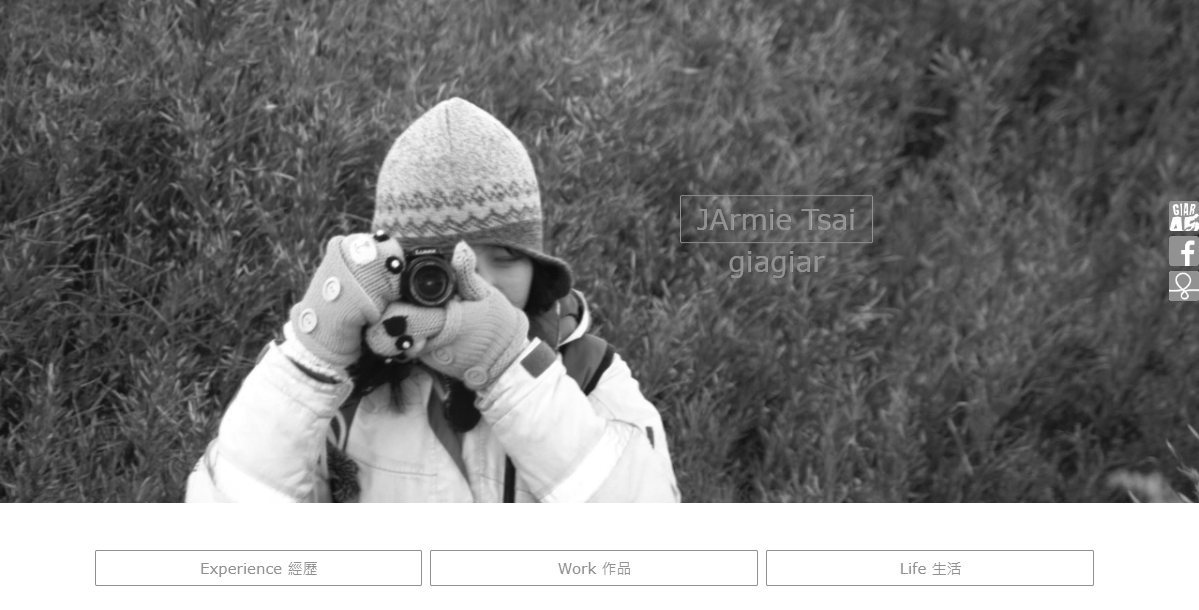
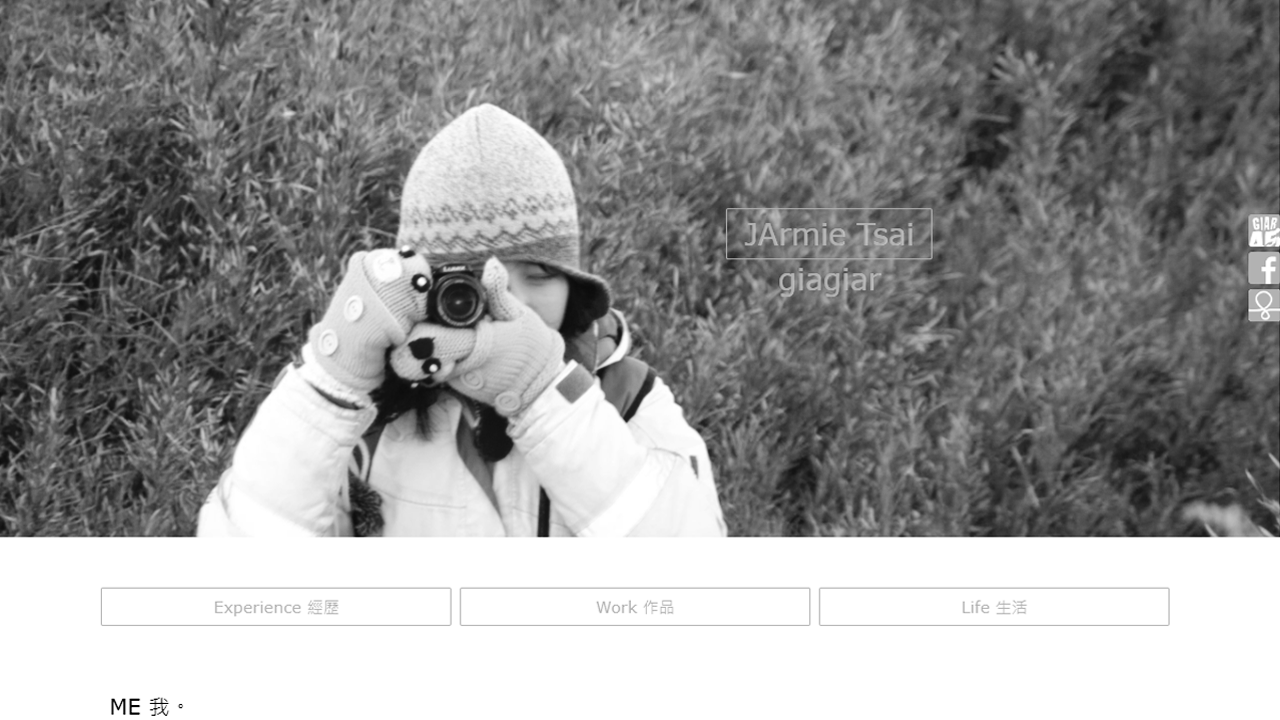
renew images of website and the margin of background

diff --git a/work-copywriting.html b/work-copywriting.html
@@ -105,53 +105,46 @@
                     <div><div class="projectvolume" style="background-image: url(Copywriting/hikingbiji/icebreakerDescender/IMGP1188.JPG);" >
                     <img src="Copywriting/hikingbiji/icebreakerDescender/IMGP1188.JPG"/>
                         <div class="projectdescription">
-                            <h2 class="descriptionBr">【體驗】icebreaker Descender連帽保暖外套</h2>
+                            <h2 class="descriptionSymbol">【體驗】icebreaker Descender連帽保暖外套</h2>
                             <p class="descriptionBr"><br><a onclick="openWindow('extPage'); loadpage('article','Copywriting/hikingbiji-icebreakerDescender.html');">&nbsp; read article | 看文章 > </a></p>
                             <p class="descriptionBr"><a href="https://hiking.biji.co/index.php?q=review&act=info&review_id=9545"  target="_blank">&nbsp; go to website | 去網頁> </a></p>
                         </div>
                      </div></div>
-                    
-                    <hr class="divider">
+
                     
                     <div><div class="projectvolume" style="background-image: url(Copywriting/hikingbiji/milletUBIC45MBS/IMGP9797.jpg);" >
                     <img src="Copywriting/hikingbiji/milletUBIC45MBS/IMGP9797.jpg"/>
                         <div class="projectdescription">
-                            <h2 class="descriptionBr">【開箱】法國經典品牌－軍用起家的MILLET-UBIC 45 MBS登山包</h2>
+                            <h2 class="descriptionSymbol">【開箱】法國經典品牌－軍用起家的MILLET-UBIC 45 MBS登山包</h2>
                             <p class="descriptionBr"><br><a onclick="openWindow('extPage'); loadpage('article','Copywriting/hikingbiji-milletUBIC45MBS.html');">&nbsp; read article | 看文章 > </a></p>
                             <p class="descriptionBr"><a href="https://hiking.biji.co/index.php?q=news&act=info&id=15646"  target="_blank">&nbsp; go to website | 去網頁> </a></p>
                         </div>
                      </div></div>
-                    
-                    <hr class="divider">
+
                     
                     <div><div class="projectvolume" style="background-image: url(Copywriting/hikingbiji/TaoYuanBiketour/Taoyuan.jpg);" >
                     <img src="Copywriting/hikingbiji/TaoYuanBiketour/Taoyuan.jpg"/>
                         <div class="projectdescription">
-                            <h2 class="descriptionBr">【活動】桃園海岸輕旅行</h2>
+                            <h2 class="descriptionSymbol">【活動】桃園海岸輕旅行</h2>
                             <p class="descriptionBr"><br><a onclick="openWindow('extPage'); loadpage('article','Copywriting/hikingbiji-TaoYuanBiketour.html');">&nbsp; read article | 看文章 > </a></p>
                             <p class="descriptionBr"><a href="https://hiking.biji.co/index.php?q=news&act=info&id=15735"  target="_blank">&nbsp; go to website | 去網頁> </a></p>
                         </div>
                      </div></div>
-                    
-                    <hr class="divider">
  
                     <div><div class="projectvolume" style="background-image: url(Copywriting/hikingbiji/RaknusSelu01/CoverDay1-1.jpg);" >
                     <img src="Copywriting/hikingbiji/RaknusSelu01/CoverDay1-1.jpg"/>
                     <div class="projectdescription">
-                        <h2 class="descriptionBr">【路線】樟之細路│D5 北埔－石硬子古道－三灣</h2>
+                        <h2 class="descriptionSymbol">【路線】樟之細路│D5 北埔－石硬子古道－三灣</h2>
                         <p class="descriptionBr"><br><a onclick="openWindow('extPage'); loadpage('article','Copywriting/hikingbiji-RaknusSelu01.html');">&nbsp; read article | 看文章 > </a></p>
                         <p class="descriptionBr"><a href="https://hiking.biji.co/index.php?q=news&act=info&id=15590"  target="_blank">&nbsp; go to website | 去網頁> </a></p>
                     </div>
                     </div></div>
-                    
 
-
-                    <hr class="divider">
  
                     <div><div class="projectvolume" style="background-image: url(Copywriting/hikingbiji/DanLanTrail/P1050570.jpg);" >
                     <img src="Copywriting/hikingbiji/DanLanTrail/P1050570.jpg"/>
                     <div class="projectdescription">
-                        <h2 class="descriptionBr">【淡蘭古道北路】石城至牡丹段二日踩線紀錄（石城-楊廷理古道-牡丹）</h2>
+                        <h2 class="descriptionSymbol">【淡蘭古道北路】石城至牡丹段二日踩線紀錄（石城-楊廷理古道-牡丹）</h2>
                         <p class="descriptionBr"><br><a onclick="openWindow('extPage'); loadpage('article','Copywriting/hikingbiji-DanLanTrail.html');">&nbsp; read article | 看文章 > </a></p>
                         <p class="descriptionBr"><a href="https://hiking.biji.co/index.php?q=review&act=info&review_id=5863"  target="_blank">&nbsp; go to website | 去網頁> </a></p>
                     </div>
@@ -169,7 +162,7 @@
                     <div><div class="projectvolume" style="background-image: url(Copywriting/buon/factors.jpg);" >
                     <img src="Copywriting/buon/factors.jpg"/>
                     <div class="projectdescription">
-                        <h2 class="descriptionBr">【 手沖入門 】新手沖煮咖啡必看五大要因</h2>
+                        <h2 class="descriptionSymbol">【手沖入門】新手沖煮咖啡必看五大要因</h2>
                         <p class="descriptionBr"><br><a onclick="openWindow('extPage'); loadpage('article','Copywriting/buon-5factors.html');">&nbsp; read article | 看文章 > </a></p>
                         <p class="descriptionBr"><a href="https://www.buoncaffe.com.tw/blog/posts/5factors"  target="_blank">&nbsp; go to website | 去網頁 > </a></p>
                     </div>
@@ -178,7 +171,7 @@
                     <div><div class="projectvolume" style="background-image: url(Copywriting/buon/di-bella-coffee-Ko7PFAommGE-unsplash.jpg);" >
                     <img src="Copywriting/buon/di-bella-coffee-Ko7PFAommGE-unsplash.jpg"/>
                     <div class="projectdescription">
-                        <h2 class="descriptionBr">【手沖知識】「悶蒸」如何影響手沖咖啡的風味</h2>
+                        <h2 class="descriptionSymbol">【手沖知識】「悶蒸」如何影響手沖咖啡的風味</h2>
                         <p class="descriptionBr"><br><a onclick="openWindow('extPage'); loadpage('article','Copywriting/buon-bloom.html');">&nbsp; read article | 看文章 > </a></p><p class="descriptionBr"><a href="https://www.buoncaffe.com.tw/blog/posts/bloom"  target="_blank">&nbsp; go to website | 去網頁> </a></p>
                     </div>
                     </div></div>
@@ -186,7 +179,7 @@
                     <div><div class="projectvolume" style="background-image: url(Copywriting/buon/wall.jpg);" >
                     <img src="Copywriting/buon/wall.jpg"/>
                     <div class="projectdescription">
-                        <h2 class="descriptionBr">【手沖知識】粉牆形成與築粉牆技巧</h2>
+                        <h2 class="descriptionSymbol">【手沖知識】粉牆形成與築粉牆技巧</h2>
                         <p class="descriptionBr"><br><a onclick="openWindow('extPage'); loadpage('article','Copywriting/buon-wall.html');">&nbsp; read article | 看文章 > </a></p>
                     </div>
                     </div></div>
@@ -194,7 +187,7 @@
                     <div><div class="projectvolume" style="background-image: url(Copywriting/buon/phin.jpg);" >
                     <img src="Copywriting/buon/phin.jpg"/>
                     <div class="projectdescription">
-                        <h2 class="descriptionBr">【 甚麼是越南咖啡壺 】越南咖啡壺介紹與用法(2019最新)</h2>
+                        <h2 class="descriptionSymbol">【甚麼是越南咖啡壺】越南咖啡壺介紹與用法(2019最新)</h2>
                         <p class="descriptionBr"><br><a onclick="openWindow('extPage'); loadpage('article','Copywriting/buon-vietnam.html');">&nbsp; read article | 看文章 > </a></p>
                         <p class="descriptionBr"><a href="https://www.buoncaffe.com.tw/blog/posts/vietnam-filter"  target="_blank">&nbsp; go to website | 去網頁 > </a></p>
                     </div>
@@ -203,7 +196,7 @@
                     <div><div class="projectvolume" style="background-image: url(Copywriting/buon/decaf.jpg);" >
                     <img src="Copywriting/buon/decaf.jpg"/>
                     <div class="projectdescription">
-                        <h2 class="descriptionBr">【無咖啡因咖啡是甚麼】秒懂解說！無咖啡因咖啡健康迷信全破除</h2>
+                        <h2 class="descriptionSymbol">【無咖啡因咖啡是甚麼】秒懂解說！無咖啡因咖啡健康迷信全破除</h2>
                         <p class="descriptionBr"><br><a onclick="openWindow('extPage'); loadpage('article','Copywriting/buon-decaf.html');">&nbsp; read article | 看文章 > </a></p>
                         <p class="descriptionBr"><a href="https://www.buoncaffe.com.tw/blog/posts/decaf"  target="_blank">&nbsp; go to website | 去網頁> </a></p>
                     </div>
@@ -212,7 +205,7 @@
                     <div><div class="projectvolume" style="background-image: url(Copywriting/buon/expresso.jpg);" >
                     <img src="Copywriting/buon/expresso.jpg"/>
                     <div class="projectdescription">
-                        <h2 class="descriptionBr">【 咖啡知識 】如何操作義式機？初心咖啡吧檯手操作義式 8 步驟！</h2>
+                        <h2 class="descriptionSymbol">【咖啡知識】如何操作義式機？初心咖啡吧檯手操作義式 8 步驟！</h2>
                         <p class="descriptionBr"><br><a onclick="openWindow('extPage'); loadpage('article','Copywriting/buon-expresso.html');">&nbsp; read article | 看文章 > </a></p>
                         <p class="descriptionBr"><a href="https://www.buoncaffe.com.tw/blog/posts/espresso"  target="_blank">&nbsp; go to website | 去網頁> </a></p>
                     </div>

diff --git a/styles/subresponsive.css b/styles/subresponsive.css
@@ -7,7 +7,7 @@
     }
     
     .projectdescription{          
-        margin:10% 0 0 0;
+        margin:8% 0 0 0;
         padding: 10px 25px 10px 70px;
     }
     
@@ -42,6 +42,9 @@
         -moz-background-size: contain; 
         -o-background-size: contain;
     }
+    .projectvolume > img{
+        width: 100%; 
+    }
     
     .photo > img{
         margin: 20px 0;
@@ -70,7 +73,7 @@
         font-size: 15pt;
     }
     .projectdescription{        
-        margin:20% 20px 0 0;
+        margin:10% 20px 0 0;
         padding: 10px 20px 10px 10%;
     }
     p.mainDescriptionEn {
@@ -111,6 +114,9 @@
         -o-background-size: 80% auto;
         background-position: 80% 50%;
     }
+    .projectvolume > img{
+        width: 80%; 
+    }
     
     .photo > img{
         margin: 20px 1.33%;
@@ -137,7 +143,7 @@
         font-size: 12pt;
     }
     .projectdescription{        
-        margin:23% 20px 0 0;
+        margin:12% 20px 0 0;
         padding:20px 20px 20px 20%;
     }
     p.mainDescriptionEn {
@@ -180,6 +186,10 @@
         -moz-background-size: 70% auto; 
         -o-background-size: 70% auto;
         background-position: 90% 50%;
+    }
+    
+    .projectvolume > img{
+        width: 70%; 
     }
 
     .photo > img{

diff --git a/styles/subpageStyle.css b/styles/subpageStyle.css
@@ -169,10 +169,8 @@ a.catalogue:active{
 }
 
 
-
 .projectvolume > img{
     vertical-align: top;
-    width: 100%; /* max width */
     opacity: 0;  /* make it transparent */
 }
 
@@ -294,8 +292,12 @@ p.descriptionW, h2.descriptionW{
     z-index:10;
 }
 
-p.descriptionBr, h2.descriptionBr{
+p.descriptionBr, h2.descriptionBr, h2.descriptionSymbol{
     margin:8px 0;
+}
+
+h2.descriptionSymbol::first-letter { 
+    margin-left: -10px;
 }
 
 h6.descriptionB{
